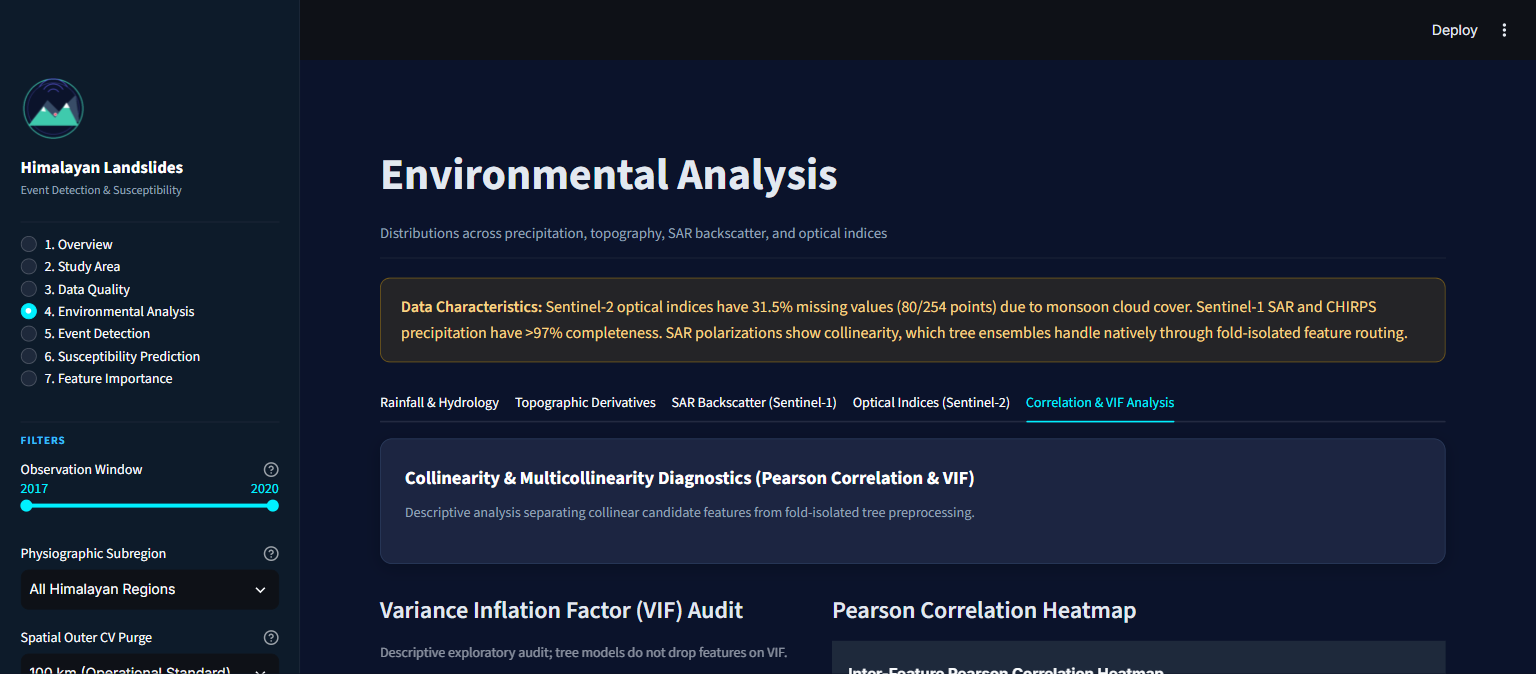
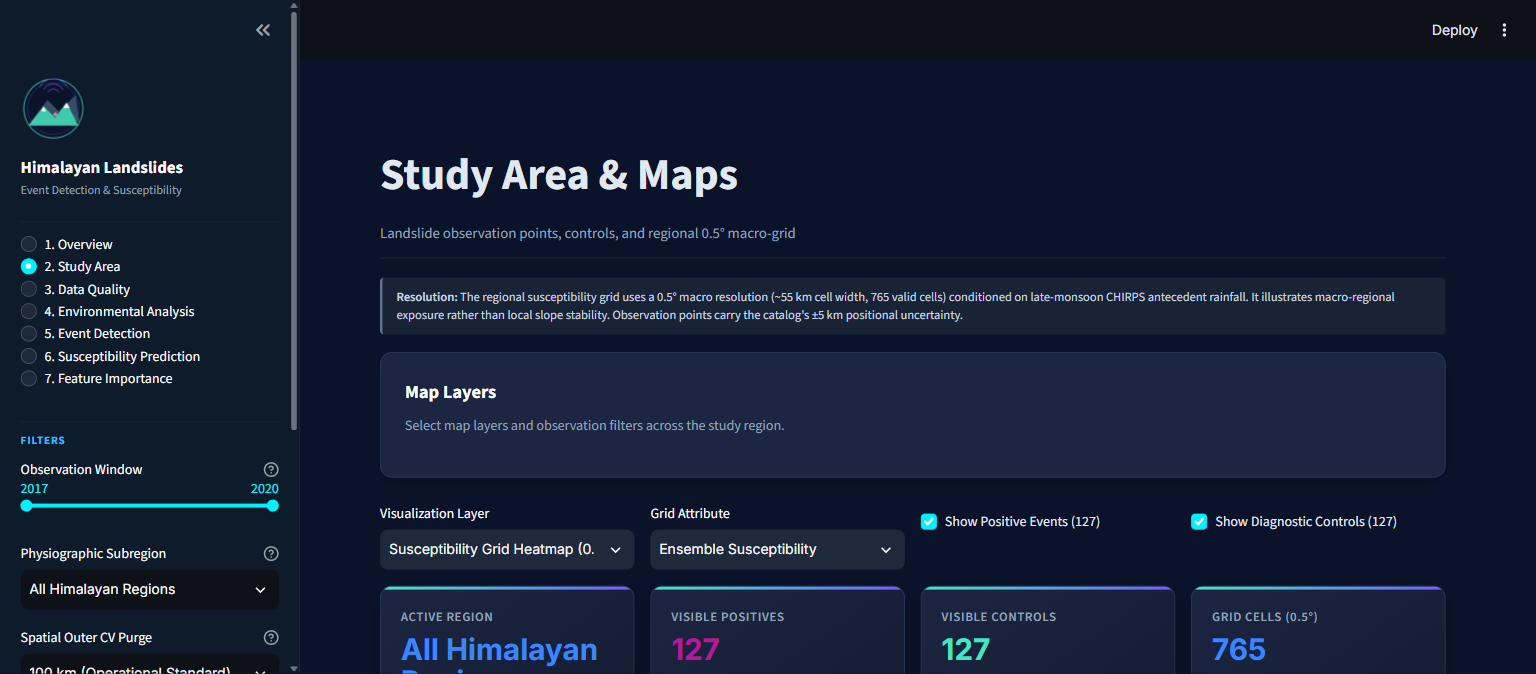
Migrate Plotly Mapbox to MapLibre density_map and scatter_map for Plotly 6 compatibility

diff --git a/tests/test_maps.py b/tests/test_maps.py
@@ -1,0 +1,116 @@
+"""Unit tests for geospatial mapping components and Plotly/PyDeck compatibility."""
+
+import pandas as pd
+import pytest
+import plotly.graph_objects as go
+import pydeck as pdk
+from unittest.mock import patch
+
+from dashboard.components.maps import (
+    render_observation_map,
+    render_susceptibility_grid_map,
+    render_pydeck_susceptibility_map,
+)
+
+
+@pytest.fixture
+def sample_observation_data():
+    return pd.DataFrame({
+        "latitude": [30.1, 31.5, 32.2, 29.8],
+        "longitude": [78.2, 77.4, 76.9, 79.1],
+        "label": [1, 0, 1, 0],
+        "event_date": ["2018-07-15", "2019-08-20", "2020-09-01", "2017-06-12"],
+        "Landslide Trigger": ["Monsoon Rain", "None", "Monsoon Rain", "None"],
+        "Location Accuracy": ["5km", "Known", "1km", "Known"],
+    })
+
+
+@pytest.fixture
+def sample_grid_data():
+    return pd.DataFrame({
+        "latitude": [30.0, 30.5, 31.0, 31.5],
+        "longitude": [77.0, 77.5, 78.0, 78.5],
+        "susceptibility": [0.15, 0.45, 0.85, 0.60],
+        "susceptibility_rf": [0.10, 0.50, 0.80, 0.65],
+        "susceptibility_xgb": [0.20, 0.40, 0.90, 0.55],
+        "rf_tree_uncertainty": [0.05, 0.12, 0.08, 0.15],
+        "model_disagreement": [0.10, 0.10, 0.10, 0.10],
+    })
+
+
+def test_render_observation_map_valid(sample_observation_data):
+    """Test observation map rendering with valid positive and negative data."""
+    fig = render_observation_map(sample_observation_data, show_positives=True, show_negatives=True)
+    assert isinstance(fig, go.Figure)
+    assert len(fig.data) > 0
+
+
+def test_render_observation_map_filtering(sample_observation_data):
+    """Test observation map filtering for only positive or only negative observations."""
+    fig_pos = render_observation_map(sample_observation_data, show_positives=True, show_negatives=False)
+    assert isinstance(fig_pos, go.Figure)
+
+    fig_neg = render_observation_map(sample_observation_data, show_positives=False, show_negatives=True)
+    assert isinstance(fig_neg, go.Figure)
+
+
+def test_render_observation_map_empty():
+    """Test observation map returns valid fallback figure on empty data."""
+    fig = render_observation_map(pd.DataFrame())
+    assert isinstance(fig, go.Figure)
+    assert "No Data" in fig.layout.title.text
+
+    fig_missing = render_observation_map(pd.DataFrame({"x": [1, 2]}))
+    assert isinstance(fig_missing, go.Figure)
+    assert "No Data" in fig_missing.layout.title.text
+
+
+def test_render_susceptibility_grid_map_valid(sample_grid_data):
+    """Test density susceptibility map renders with valid grid data."""
+    fig = render_susceptibility_grid_map(sample_grid_data, value_column="susceptibility")
+    assert isinstance(fig, go.Figure)
+    assert len(fig.data) > 0
+
+
+def test_render_susceptibility_grid_map_attributes(sample_grid_data):
+    """Test density map renders for different attributes without error."""
+    for col in ["susceptibility_rf", "susceptibility_xgb", "rf_tree_uncertainty", "model_disagreement"]:
+        fig = render_susceptibility_grid_map(sample_grid_data, value_column=col)
+        assert isinstance(fig, go.Figure)
+        assert len(fig.data) > 0
+
+
+def test_render_susceptibility_grid_map_empty():
+    """Test susceptibility grid map gracefully handles empty DataFrame."""
+    fig = render_susceptibility_grid_map(pd.DataFrame())
+    assert isinstance(fig, go.Figure)
+    assert len(fig.data) == 0
+
+
+def test_plotly_6_compatibility_simulation(sample_observation_data, sample_grid_data):
+    """Simulate Plotly 6 environment where px.density_mapbox and px.scatter_mapbox are removed.
+    
+    Verifies that render_susceptibility_grid_map and render_observation_map execute
+    cleanly using px.density_map and px.scatter_map without raising AttributeError.
+    """
+    import plotly.express as px
+
+    # In Plotly 6, density_mapbox and scatter_mapbox are removed
+    with patch.object(px, "density_mapbox", side_effect=AttributeError("module 'plotly.express' has no attribute 'density_mapbox'"), create=True):
+        with patch.object(px, "scatter_mapbox", side_effect=AttributeError("module 'plotly.express' has no attribute 'scatter_mapbox'"), create=True):
+            # Must not raise AttributeError:
+            fig_obs = render_observation_map(sample_observation_data)
+            assert isinstance(fig_obs, go.Figure)
+
+            fig_grid = render_susceptibility_grid_map(sample_grid_data, value_column="susceptibility")
+            assert isinstance(fig_grid, go.Figure)
+
+
+def test_render_pydeck_susceptibility_map(sample_grid_data):
+    """Test 3D PyDeck map rendering."""
+    deck = render_pydeck_susceptibility_map(sample_grid_data, elevation_scale=40)
+    assert isinstance(deck, pdk.Deck)
+    assert len(deck.layers) == 1
+
+    deck_empty = render_pydeck_susceptibility_map(pd.DataFrame())
+    assert isinstance(deck_empty, pdk.Deck)

diff --git a/dashboard/components/maps.py b/dashboard/components/maps.py
@@ -1,4 +1,4 @@
-"""Geospatial mapping components using Plotly Mapbox and PyDeck."""
+"""Geospatial mapping components using Plotly MapLibre and PyDeck."""
 
 import pandas as pd
 import numpy as np
@@ -53,19 +53,35 @@ def render_observation_map(
     if "Location Accuracy" in plot_df.columns:
         hover_cols.append("Location Accuracy")
 
-    fig = px.scatter_mapbox(
-        plot_df,
-        lat="latitude",
-        lon="longitude",
-        color="Class",
-        color_discrete_map=color_map,
-        hover_name="Class",
-        hover_data=hover_cols,
-        zoom=5,
-        center={"lat": HIMALAYAN_CENTER["lat"], "lon": HIMALAYAN_CENTER["lon"]},
-        mapbox_style="carto-darkmatter",
-        height=height,
-    )
+    # Use supported MapLibre px.scatter_map (Plotly 5.24+ / 6+) with fallback to legacy px.scatter_mapbox
+    if hasattr(px, "scatter_map"):
+        fig = px.scatter_map(
+            plot_df,
+            lat="latitude",
+            lon="longitude",
+            color="Class",
+            color_discrete_map=color_map,
+            hover_name="Class",
+            hover_data=hover_cols,
+            zoom=5,
+            center={"lat": HIMALAYAN_CENTER["lat"], "lon": HIMALAYAN_CENTER["lon"]},
+            map_style="carto-darkmatter",
+            height=height,
+        )
+    else:
+        fig = px.scatter_mapbox(
+            plot_df,
+            lat="latitude",
+            lon="longitude",
+            color="Class",
+            color_discrete_map=color_map,
+            hover_name="Class",
+            hover_data=hover_cols,
+            zoom=5,
+            center={"lat": HIMALAYAN_CENTER["lat"], "lon": HIMALAYAN_CENTER["lon"]},
+            mapbox_style="carto-darkmatter",
+            height=height,
+        )
 
     fig.update_traces(marker=dict(size=9, opacity=0.85))
     fig.update_layout(
@@ -113,20 +129,37 @@ def render_susceptibility_grid_map(
         if col in grid_df.columns and col != value_column:
             hover_data[col] = ":.3f"
 
-    fig = px.density_mapbox(
-        grid_df,
-        lat="latitude",
-        lon="longitude",
-        z=value_column,
-        radius=28,
-        center={"lat": HIMALAYAN_CENTER["lat"], "lon": HIMALAYAN_CENTER["lon"]},
-        zoom=4.8,
-        mapbox_style="carto-darkmatter",
-        color_continuous_scale=color_scale,
-        range_color=[0.0, 1.0] if "susceptibility" in value_column else None,
-        hover_data=hover_data,
-        height=height,
-    )
+    # Use supported MapLibre px.density_map (Plotly 5.24+ / 6+) with fallback to legacy px.density_mapbox
+    if hasattr(px, "density_map"):
+        fig = px.density_map(
+            grid_df,
+            lat="latitude",
+            lon="longitude",
+            z=value_column,
+            radius=28,
+            center={"lat": HIMALAYAN_CENTER["lat"], "lon": HIMALAYAN_CENTER["lon"]},
+            zoom=4.8,
+            map_style="carto-darkmatter",
+            color_continuous_scale=color_scale,
+            range_color=[0.0, 1.0] if "susceptibility" in value_column else None,
+            hover_data=hover_data,
+            height=height,
+        )
+    else:
+        fig = px.density_mapbox(
+            grid_df,
+            lat="latitude",
+            lon="longitude",
+            z=value_column,
+            radius=28,
+            center={"lat": HIMALAYAN_CENTER["lat"], "lon": HIMALAYAN_CENTER["lon"]},
+            zoom=4.8,
+            mapbox_style="carto-darkmatter",
+            color_continuous_scale=color_scale,
+            range_color=[0.0, 1.0] if "susceptibility" in value_column else None,
+            hover_data=hover_data,
+            height=height,
+        )
 
     fig.update_layout(
         template="plotly_dark",
